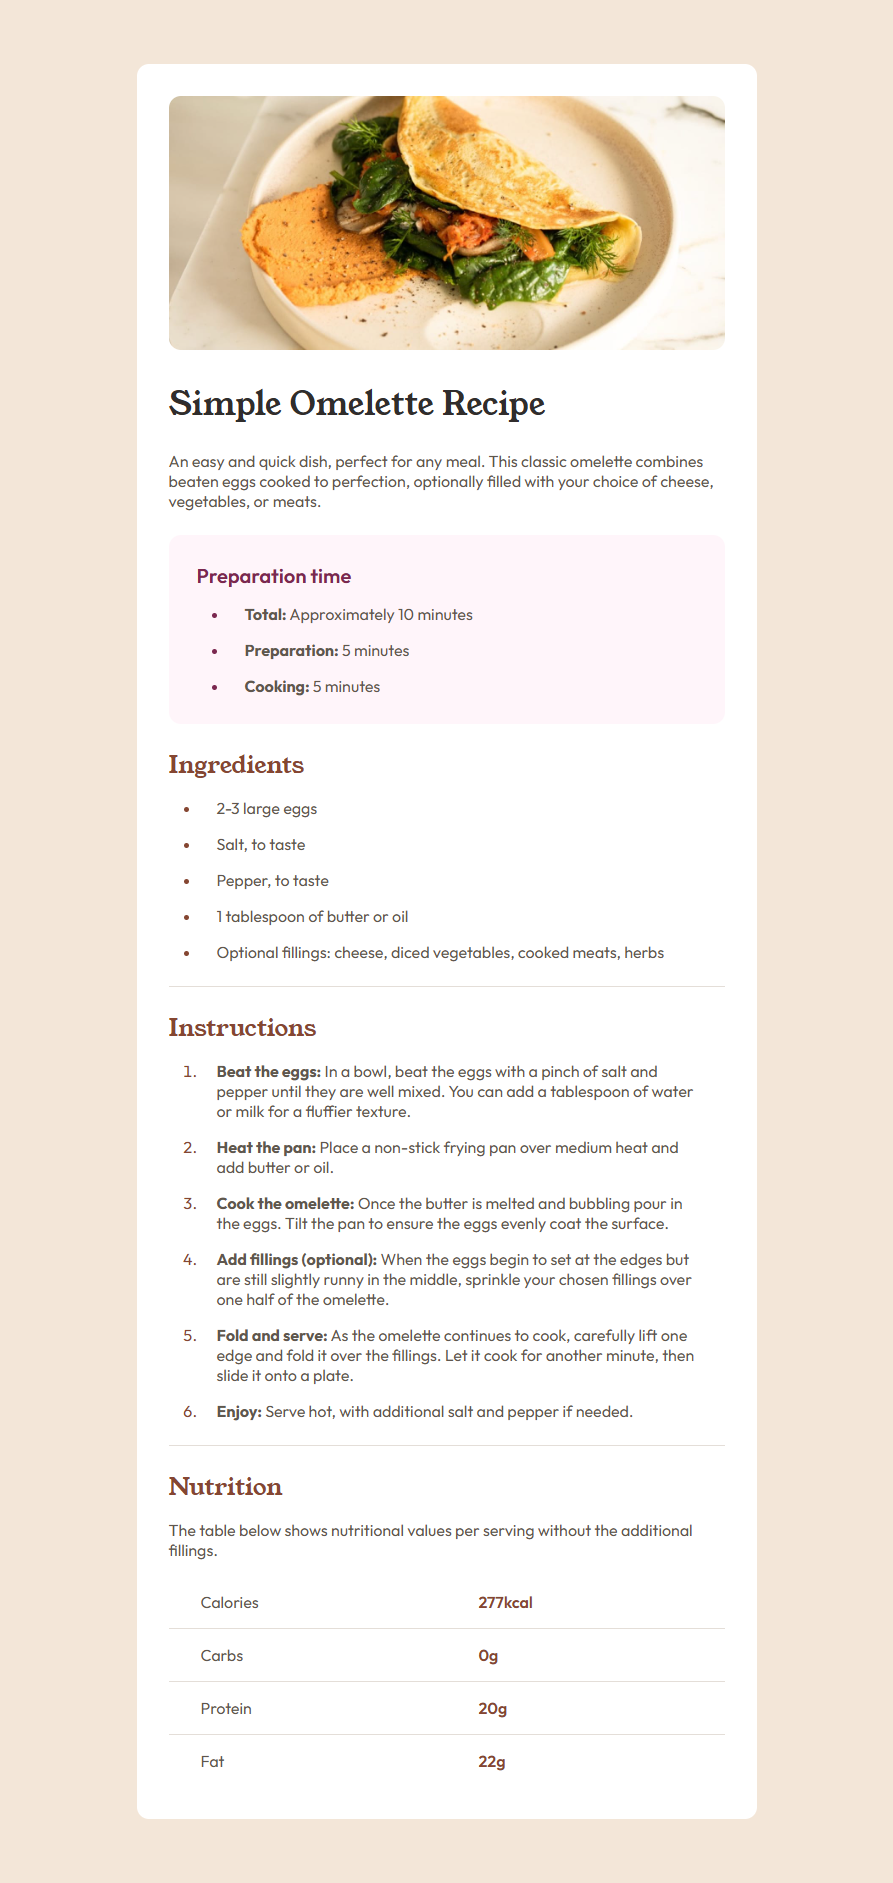
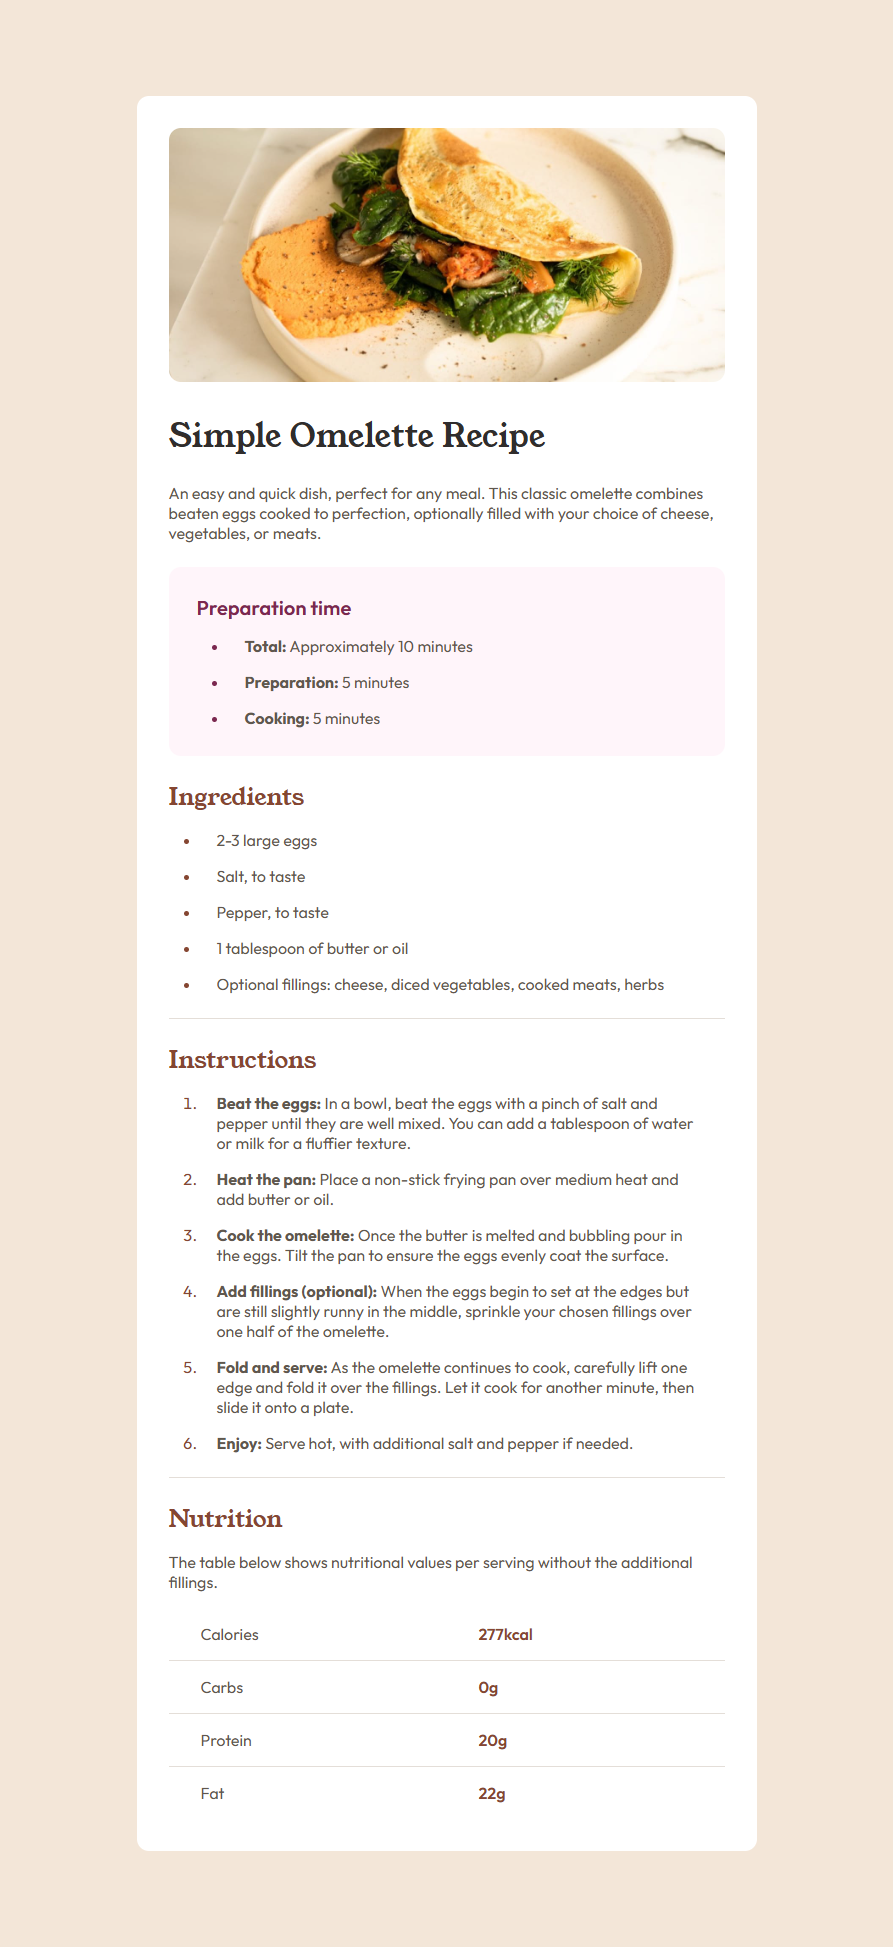
Agrega margin adicional al main

Changed region(s): [[0.1512, 0.5236, 0.8466, 0.9857], [0.1512, 0.0308, 0.8466, 0.3696], [0.1814, 0.4004, 0.3628, 0.4928]]

diff --git a/css/styles.css b/css/styles.css
@@ -171,7 +171,7 @@ body {
   }
 
   main {
-    padding: 4rem 0;
+    padding: 6rem 0;
   }
 
   .recipe-card {